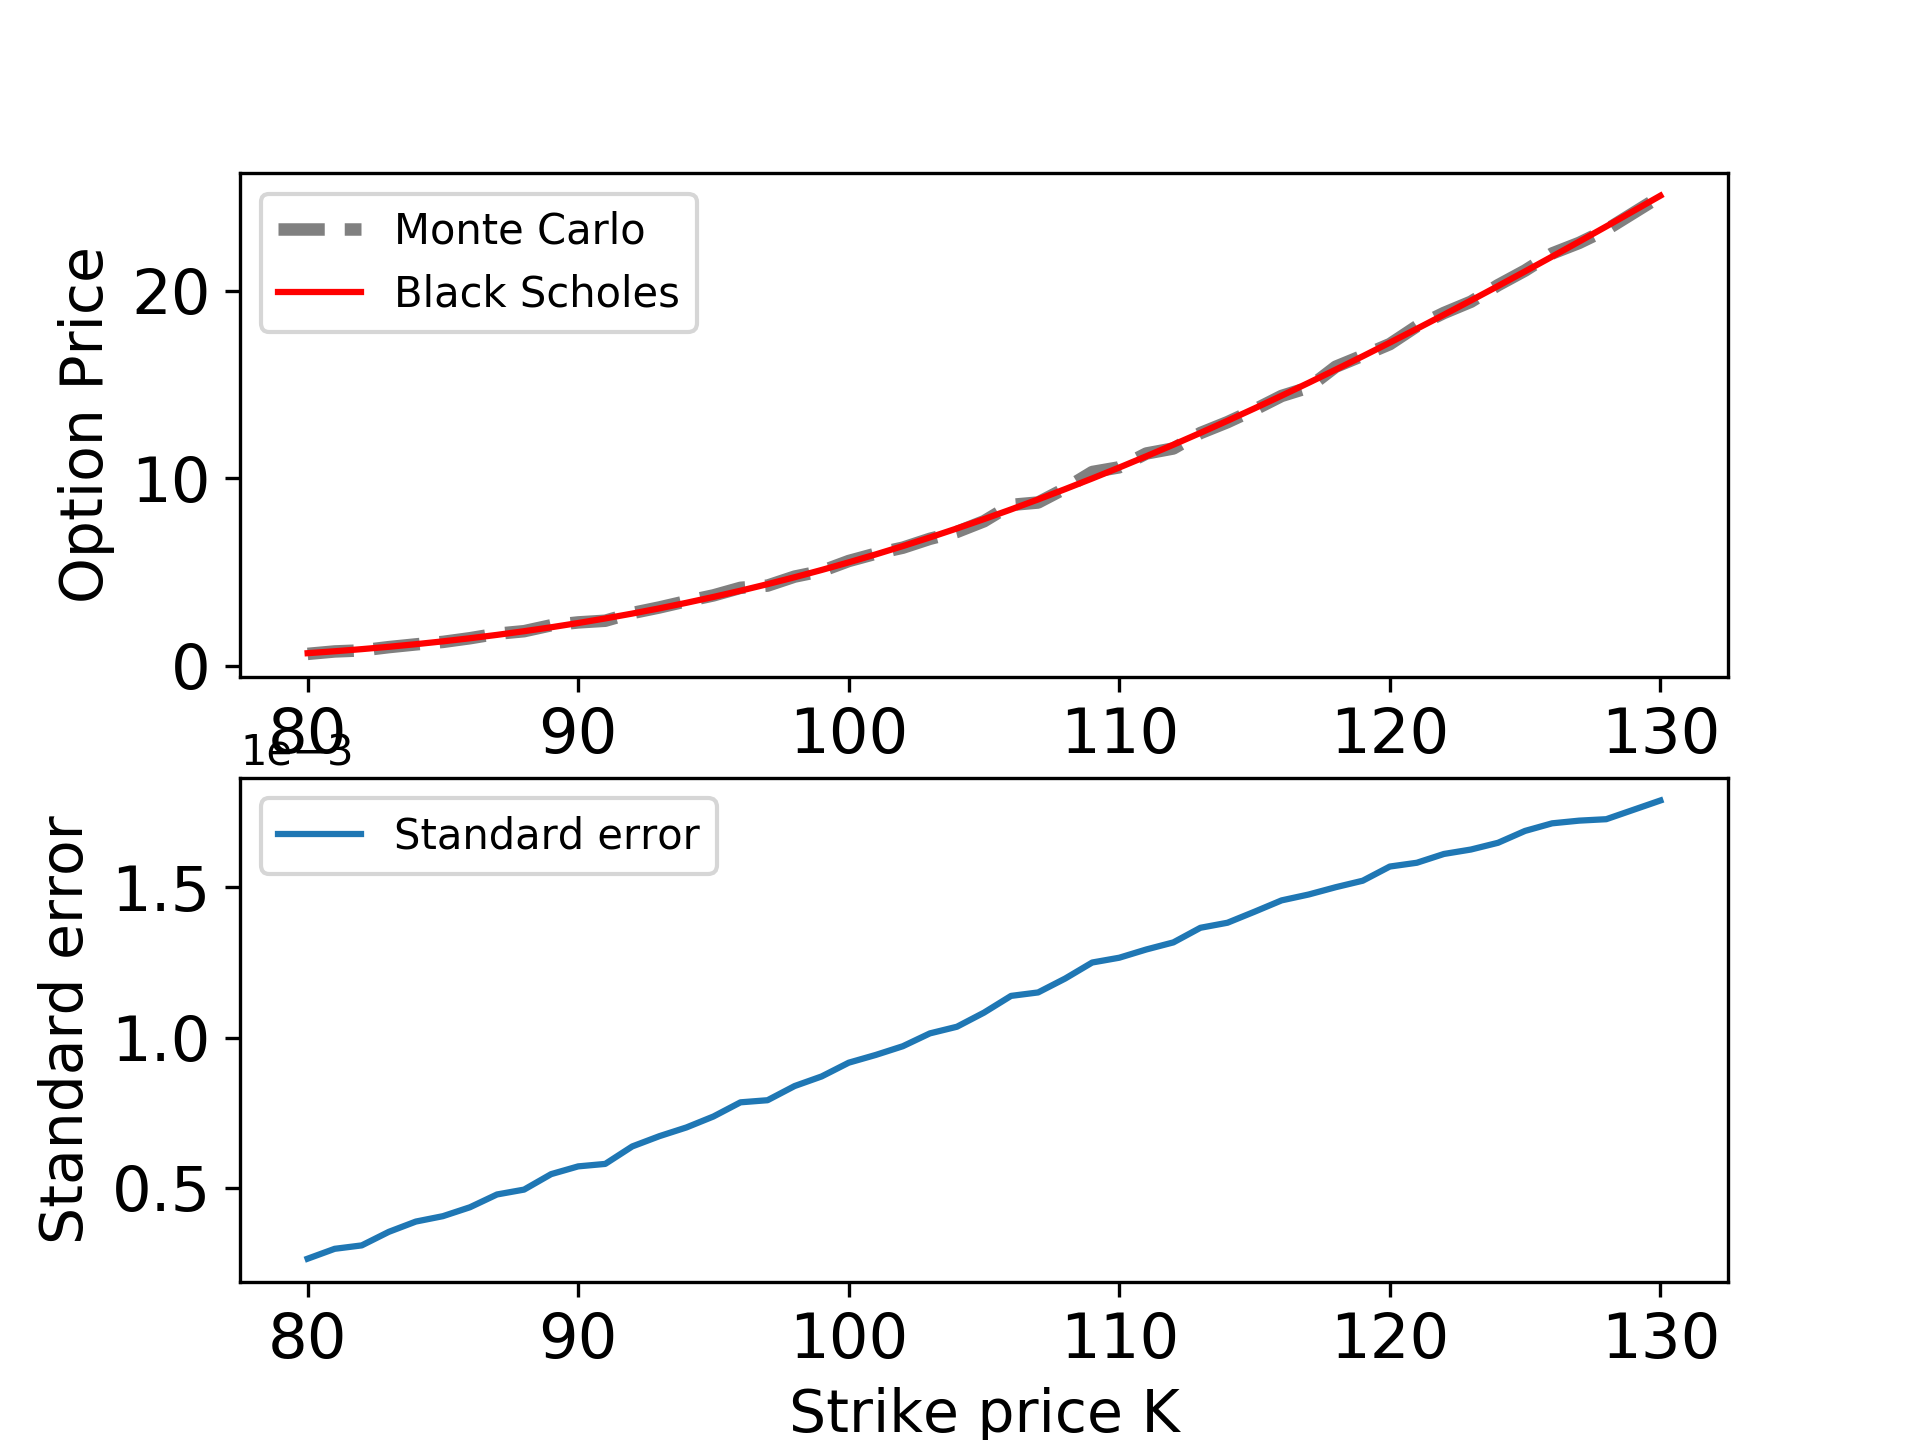
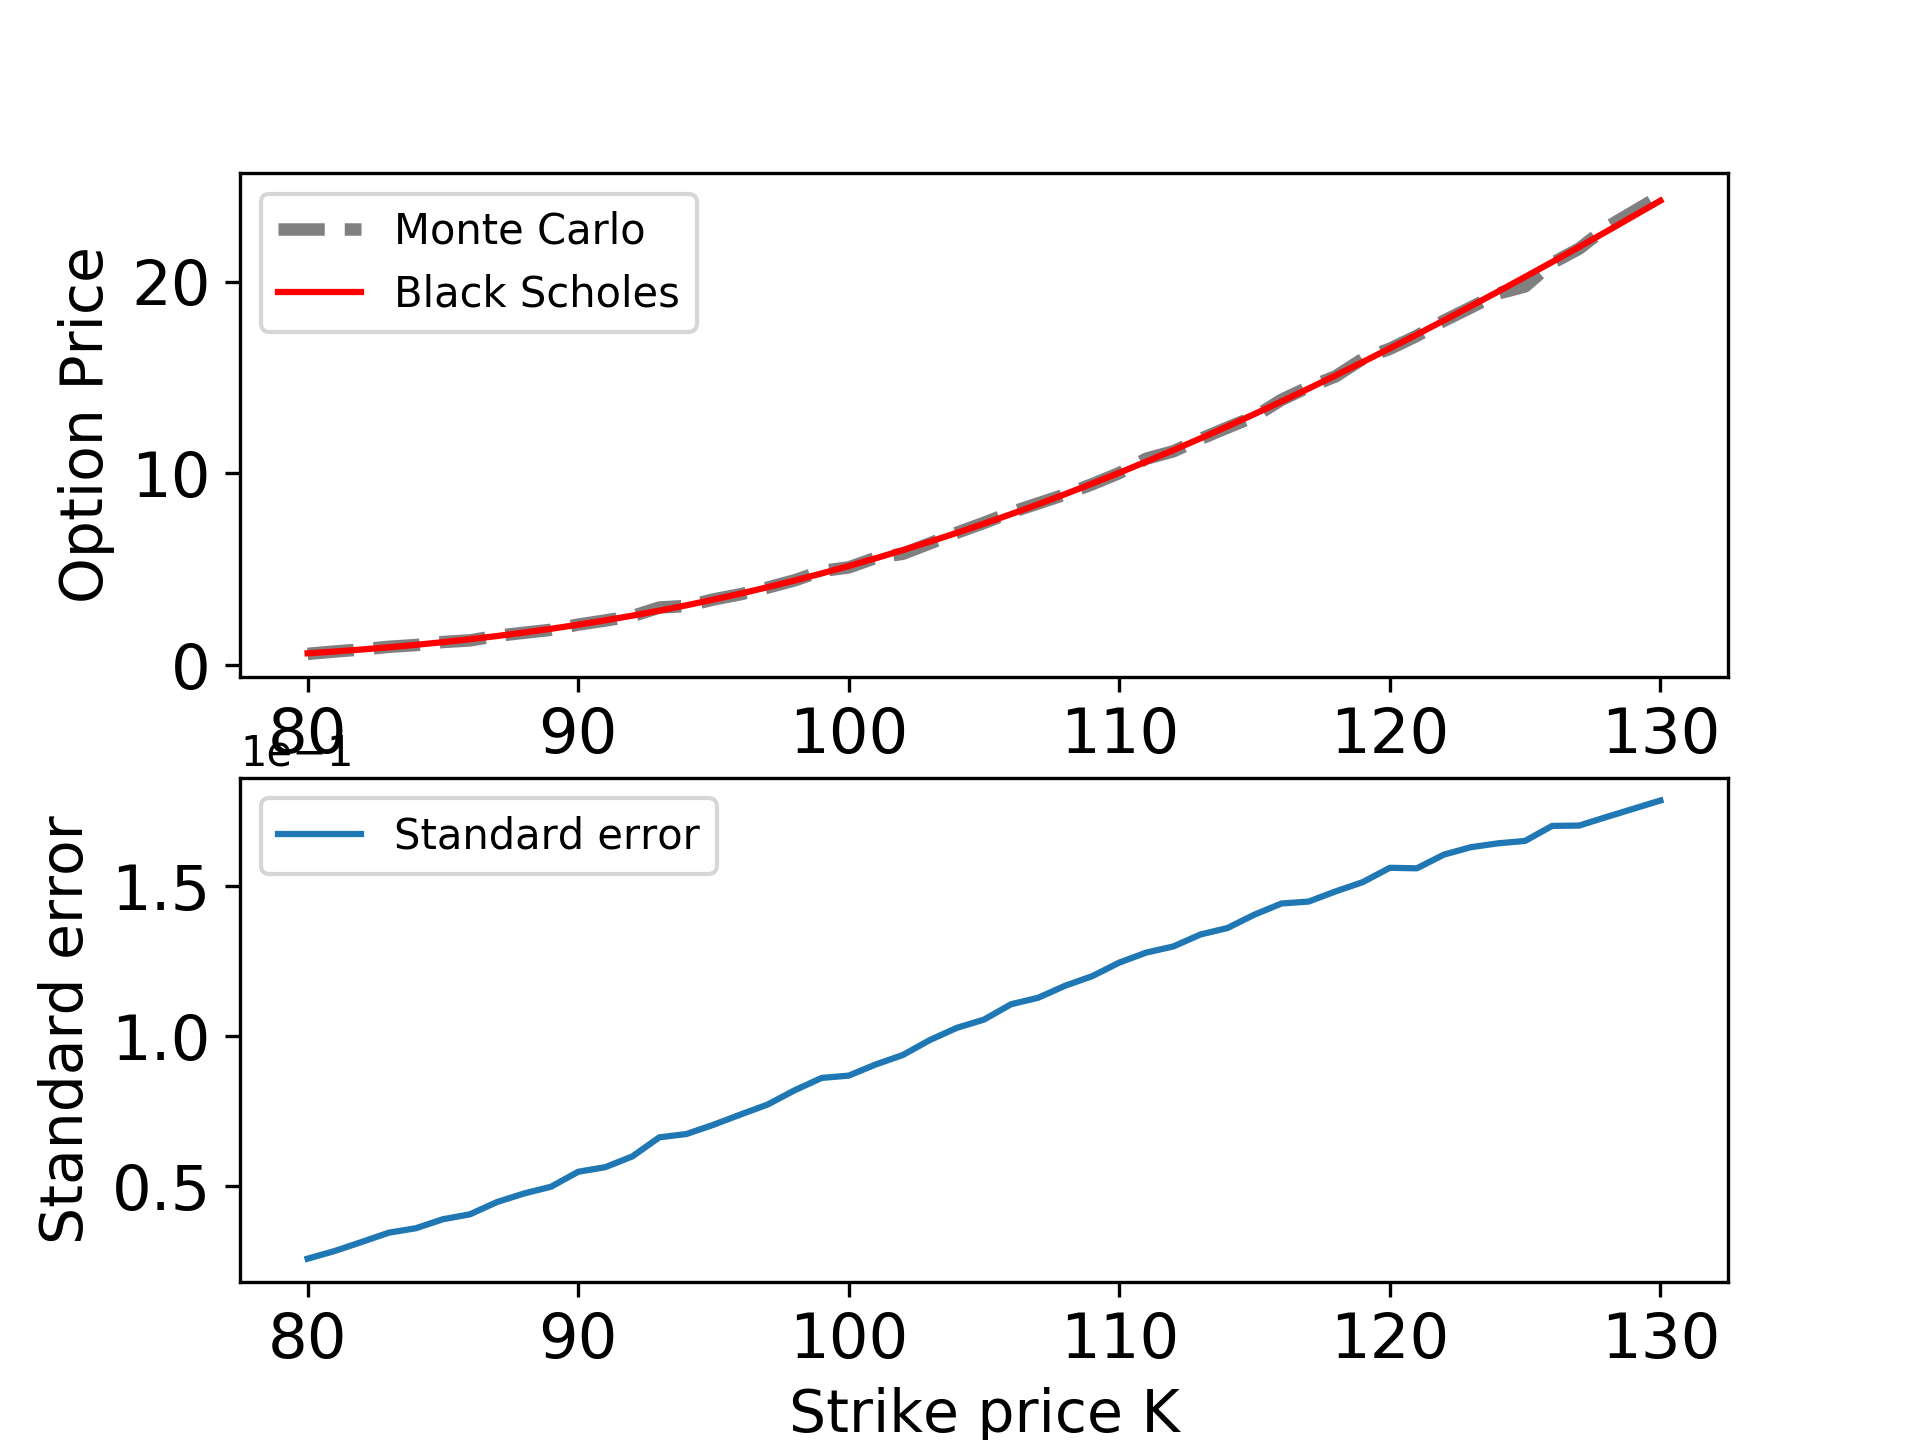
- made 2 worker function - change the input of the different helper

diff --git a/Assignment 2/helper.py b/Assignment 2/helper.py
@@ -94,7 +94,7 @@ def diff_monte_carlo_process(T, S0, K, r, sigma, steps,increments,max_repetition
         pool.join()
 
         mean_pay_off = np.mean([pay_off for pay_off in pay_off_list])
-        std_pay_off = np.std([pay_off for pay_off in pay_off_list])/repetition
+        std_pay_off = np.std([pay_off for pay_off in pay_off_list])/np.sqrt(repetition)
         mc_pricing['euler_integration'].append((np.exp(-r*T)*mean_pay_off ,std_pay_off))
 
     bs = BlackScholes(T, S0, K, r, sigma)
@@ -108,19 +108,19 @@ def diff_monte_carlo_process(T, S0, K, r, sigma, steps,increments,max_repetition
     axs[0].tick_params(labelsize='15')
 
     axs[1].plot(different_mc_rep, [i[1] for i in mc_pricing['euler_integration']], label='Standard error')
-    axs[1].set_xlabel("Strike price K", fontsize=14)
+    axs[1].set_xlabel("Monte Carlo repetition", fontsize=14)
     axs[1].legend()
     axs[1].set_ylabel("Standard error", fontsize=14)
     axs[1].tick_params(labelsize='15')
 
     if save_plot:
-        plt.savefig("figures/" + "mc_euler_integration_diff_K", dpi=300)
+        plt.savefig("figures/" + "mc_euler_integration_diff_MC", dpi=300)
     plt.show()
     plt.close()
 
 
 
-def diff_K_monte_carlo_process(T,different_k , S0, r, sigma, steps, repetition = 10000, save_plot=False):
+def diff_K_monte_carlo_process(T,different_k , S0, r, sigma, steps, repetition, save_plot=False):
     """
     :param T:  Period
     :param S0: Stock price at spot time
@@ -131,8 +131,6 @@ def diff_K_monte_carlo_process(T,different_k , S0, r, sigma, steps, repetition =
     :param save_plot:  to save the plot
     :return:  returns a plot of a simulated stock movement
     """
-
-
 
     # mc_pricing will be a dict of a list containing  tuples of (pricing and standard error)
     mc_pricing = defaultdict(list)
@@ -147,7 +145,7 @@ def diff_K_monte_carlo_process(T,different_k , S0, r, sigma, steps, repetition =
         pool.join()
 
         mean_pay_off = np.mean([pay_off for pay_off in pay_off_list])
-        std_pay_off = np.std([pay_off for pay_off in pay_off_list])/repetition
+        std_pay_off = np.std([pay_off for pay_off in pay_off_list])/np.sqrt(repetition)
         mc_pricing['euler_integration'].append((np.exp(-r*T)*mean_pay_off,std_pay_off))
 
     bs_list= []
@@ -175,6 +173,61 @@ def diff_K_monte_carlo_process(T,different_k , S0, r, sigma, steps, repetition =
         plt.savefig("figures/" + "mc_euler_integration_diff_K", dpi=300)
     plt.show()
     plt.close()
+
+def diff_sigma_monte_carlo_process(T,K , S0, r, different_sigma, steps, repetition, save_plot=False):
+    """
+    :param T:  Period
+    :param S0: Stock price at spot time
+    :param K:  Strike price
+    :param r:  interest rate
+    :param sigma: volatility
+    :param steps: number of steps
+    :param save_plot:  to save the plot
+    :return:  returns a plot of a simulated stock movement
+    """
+
+    # mc_pricing will be a dict of a list containing  tuples of (pricing and standard error)
+    mc_pricing = defaultdict(list)
+
+    for sigma in tqdm.tqdm(different_sigma):
+
+        mc_list = [monte_carlo(steps, T, S0, sigma, r, K) for i in range(repetition)]
+        num_core = 3
+        pool = multiprocessing.Pool(num_core)
+        pay_off_list = pool.map(worker_pay_off_euler_direct, ((mc) for mc in mc_list))
+        pool.close()
+        pool.join()
+
+        mean_pay_off = np.mean([pay_off for pay_off in pay_off_list])
+        std_pay_off = np.std([pay_off for pay_off in pay_off_list])/np.sqrt(repetition)
+        mc_pricing['euler_integration'].append((np.exp(-r*T)*mean_pay_off,std_pay_off))
+
+    bs_list = []
+    for s in different_sigma:
+        bs = BlackScholes(T, S0, K, r, s)
+        bs_list.append(bs.put_price())
+
+    fig, axs = plt.subplots(2)
+    axs[0].plot(different_sigma,[i[0] for i in mc_pricing['euler_integration']],linestyle='--',linewidth=3,
+                color='gray', label='Monte Carlo')
+    axs[0].plot(different_sigma, bs_list, 'r', label='Black Scholes')
+    axs[0].legend()
+    axs[0].set_ylabel("Option Price",fontsize=14)
+    axs[0].tick_params(labelsize='15')
+
+    axs[1].plot(different_sigma,[i[1] for i in mc_pricing['euler_integration']],label='Standard error')
+    axs[1].set_xlabel("Volatility", fontsize=14)
+    axs[1].legend()
+    axs[1].set_ylabel("Standard error", fontsize=14)
+    axs[1].tick_params(labelsize='15')
+    axs[1].ticklabel_format(axis="y", style="sci",scilimits=(0,0))
+
+
+    if save_plot:
+        plt.savefig("figures/" + "mc_euler_integration_diff_sigma", dpi=300)
+    plt.show()
+    plt.close()
+
 
 
 def milstein_process(T, S0, K, r, sigma, steps,save_plot=False):

diff --git a/Assignment 2/main.py b/Assignment 2/main.py
@@ -32,7 +32,7 @@ helper.diff_monte_carlo_process(
     max_repetition=10000,
     save_plot=True)
 
-'''
+
 helper.diff_K_monte_carlo_process(
     T=1,
     different_k=np.linspace(80,130,dtype=int),
@@ -41,8 +41,20 @@ helper.diff_K_monte_carlo_process(
     sigma=0.2,
     steps=365,
     repetition=10000,
-    save_plot=False)
-'''
+    save_plot=True)
+
+
+
+helper.diff_sigma_monte_carlo_process(
+    T=1,
+    K=99,
+    S0=100,
+    r=0.06,
+    different_sigma=np.linspace(0.01,1),
+    steps=365,
+    repetition=10000,
+    save_plot=True)
+
 
 #helper.milstein_process(1, 100, 99, 0.06, 0.2, steps=365,save_plot=False)
 
@@ -56,9 +68,9 @@ Estimation of Sensitivities in MC:
 - and point 2 use sophisticated method discussed in the lecture
 '''
 
-mean_deltas = helper.bump_and_revalue(
-    1, 100, 99, 0.06, 0.2, 365, [0.01, 0.02, 0.5], save_plot=False
-)
+#mean_deltas = helper.bump_and_revalue(
+#    1, 100, 99, 0.06, 0.2, 365, [0.01, 0.02, 0.5], save_plot=False
+#)
 # print(mean_deltas)
 
 
